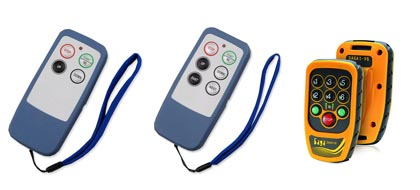
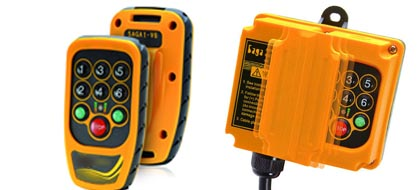
Radio Mars 2014 + MAJ Radio Pocket

diff --git a/html/fr/produit-JMei-Pocket.php b/html/fr/produit-JMei-Pocket.php
@@ -2,8 +2,8 @@
 	include 'common.php';
 //	$title .= '';
 	$title = 'JMei - Radio pocket - télécommande mini';
-	$description = 'Commande à distance économique et légère, JMei-L4/L6/L8, JMei-V6/V6+. La commande industrielle à petit prix';
-	$keywords = 'Radio pocket,radio,pocket,Emetteur,compact,434MHZ,radio à distance,pont roulant,boîte à boutons,télécommande,commande industrielle';
+	$description = 'Commande à distance économique et légère, JMeiradio pocket. La commande industrielle à petit prix, ultra-compacte';
+	$keywords = 'Radio pocket,radio,pocket,Emetteur,compact,868MHZ,radio à distance,pont roulant,boîte à boutons,télécommande,commande industrielle, télécommande compacte';
 
 	$pageId = 'JMPOCKET';
 	include 'header.php';
@@ -14,72 +14,40 @@
 <?php include 'product-nav.php'; ?>
 				<div class="span9">
 					<a name="highlight"></a>
-				  <h3>Télécommande  de type JMei-L et JMei-V6 (Radio pocket)</h3>
+				  <h3>Télécommande   radio pocket</h3>
 					<div class="row">
 						<div class="span4">
-							<img class="img-polaroid" src="../img/product-JMPOCKET/JMpocket1.jpg" alt="Radiocommande pour pont roulant" />
+							<img class="img-polaroid" src="../img/product-JMPOCKET/JMpocket1.jpg" alt="Télécommande compacte" />
 						</div>
 					</div>
 					<p></p>
-					<hr>
-					<h4>Gamme</h4>
-					<div class="row">
-						<div class="span3">
-							<h5>JMei-L4 / JMei-L6 / JMei-L8</h5>
-							<img src="../img/product-JMPOCKET/JMpocket2.jpg" alt="Boîte à boutons JMei"> 
-                         <p><a href="<?php echo Site::relativeUrl('POCKETL.pdf');?>" class="btn btn-success btn-large"><i class="icon-white icon-arrow-down"></i> JMei-L (PDF)</a></p>
-							<h6>Fonctions diponibles:</h6>
-							<ul>
-								<li>Jusqu'à 8 boutons à simple impulsion.</li>
-								<li>Fréquence fixe à quartz. </li>
-								<li>Indicateur de puissance faible. <br>
-							    Bouton-poussoir bloqué détecteur. </li>
-								<li>Distance de fonctionnement: Jusqu'à 100 mètres. </li>
-								<li>Température de fonctionnement: -45 ℃ ~ 80 ℃. </li>
-								<li>Consommation: environ 10mA. </li>
-								<li>Structure: nylon + fibre de verre. </li>
-								<li>Résistance aux chocs. </li>
-								<li>Fonction programmable</li>
-								<li>434MHZ - 12-24V DC ou 24-48-110-220-380V AC</li>
-							</ul>
-							<p><strong>Applications: </strong>émetteur compact  de poche dont l'installation est  aisée.<br>
-						    Son marché principal est le marché des véhicules, en particulier pour les camions de remorquage.</p>
-						</div>
-						<div class="span3">
-						  <h5>JMei-V6 / JMei-V6+<br>
-							</h5>
-							<img src="../img/product-JMPOCKET/JMpocket3.jpg" alt="Boîte à boutons universelle"> 
-                         <p><a href="<?php echo Site::relativeUrl('POCKETV.pdf');?>" class="btn btn-success btn-large"><i class="icon-white icon-arrow-down"></i> JMei-V6 (PDF)</a></p>
-						  <h6>Fonctions diponibles:</h6>
-                          <ul>
-                            <li>SMART Communication Radio <br>
+					<p><a href="<?php echo Site::relativeUrl('POCKETV.pdf');?>" class="btn btn-success btn-large"><i class="icon-white icon-arrow-down"></i> Télécharger le PDF</a></p>
+					<a name="features"></a><h4>Caractéristiques</h4>
+                  <ul>
+                      <li>SMART Communication Radio <br>
                               Il aide l'opérateur à surveiller l'état de signal radio avec cette nouvelle technologie RF. </li>
-                            <li>Sélection automatique des canaux (ACS) <br>
+                      <li>Sélection automatique des canaux (ACS) <br>
                               Cette fonction crée une non-interférence près d'autres systèmes</li>
-                            <li>Récepteur tableau de commande (en option) <br>
+                      <li>Récepteur tableau de commande<br>
                               Un tableau de commande disponible sur le récepteur pour pallier à l'émetteur  perdu / endommagé </li>
-                            <li>Jumelage à distance <br>
+                      <li>Jumelage à distance <br>
                               Il est facile et simple d'enregistrer un émetteur de remplacement sans aucun outil nécessaire. </li>
-                            <li>Programmable Logiciel PC <br>
+                      <li>Programmable Logiciel PC <br>
                               Il vous permet de programmer la fonction de bouton et fréquences grâce à un logiciel.</li>
-                            <li>NF / NO relais <br>
+                      <li>NF / NO relais <br>
                               Tous les relais sont NF / NO et permettent de répondre à toutes les exigences les plus spécifiques de l'application.</li>
-                            <li> IP66 <br>
+                      <li> IP66 <br>
                               Boîtier robuste pour toutes les conditions météorologiques.</li>
-                            <li>Le mode de mise sous tension par mot de passe.<br>
+                      <li>Le mode de mise sous tension par mot de passe.<br>
                               Il offre plusieurs modes de mise sous tension comme mot de passe pour l'opérateur autorisé.</li>
-                            <li>Câble du récepteur pré-assemblé.<br>
+                      <li>Câble du récepteur pré-assemblé.<br>
                               Installation facile et rapide</li>
-                            <li>868MHz - 10..42V DC</li>
+                      <li>868MHz - 10..42V DC</li>
                           </ul>
-							<p><strong>Applications: </strong>Un système radio à distance développé pour le système  remorques / treuils / hydraulique. Il s'applique également pour le contrôle industriel / porte / barrière et autres domaines industriels.</p>
+                   <a name="uses"></a><h4>Applications</h4>
+							<p>Un système radio à distance développé pour le système  remorques / treuils / hydraulique. Il s'applique également pour le contrôle industriel / porte / barrière et autres domaines industriels.</p>
 						</div>
-						<div class="span3"></div>
-					</div>
-					<div class="row">
-					  <div class="span3">					    </div>
-						<div class="span3">
-						</div>
+
 					</div>
 				</div>
 			</div>

diff --git a/html/fr/produit-JMei-Pocket - copie.php b/html/fr/produit-JMei-Pocket - copie.php
@@ -1,0 +1,86 @@
+<?php
+	include 'common.php';
+//	$title .= '';
+	$title = 'JMei - Radio pocket - télécommande mini';
+	$description = 'Commande à distance économique et légère, JMei-L4/L6/L8, JMei-V6/V6+. La commande industrielle à petit prix';
+	$keywords = 'Radio pocket,radio,pocket,Emetteur,compact,434MHZ,radio à distance,pont roulant,boîte à boutons,télécommande,commande industrielle';
+
+	$pageId = 'JMPOCKET';
+	include 'header.php';
+	include 'nav.php';
+
+?>
+			<div class="row">
+<?php include 'product-nav.php'; ?>
+				<div class="span9">
+					<a name="highlight"></a>
+				  <h3>Télécommande  de type JMei-L et JMei-V6 (Radio pocket)</h3>
+					<div class="row">
+						<div class="span4">
+							<img class="img-polaroid" src="../img/product-JMPOCKET/JMpocket1.jpg" alt="Radiocommande pour pont roulant" />
+						</div>
+					</div>
+					<p></p>
+					<hr>
+					<h4>Gamme</h4>
+					<div class="row">
+						<div class="span3">
+							<h5>JMei-L4 / JMei-L6 / JMei-L8</h5>
+							<img src="../img/product-JMPOCKET/JMpocket2.jpg" alt="Boîte à boutons JMei"> 
+                         <p><a href="<?php echo Site::relativeUrl('POCKETL.pdf');?>" class="btn btn-success btn-large"><i class="icon-white icon-arrow-down"></i> JMei-L (PDF)</a></p>
+							<h6>Fonctions diponibles:</h6>
+							<ul>
+								<li>Jusqu'à 8 boutons à simple impulsion.</li>
+								<li>Fréquence fixe à quartz. </li>
+								<li>Indicateur de puissance faible. <br>
+							    Bouton-poussoir bloqué détecteur. </li>
+								<li>Distance de fonctionnement: Jusqu'à 100 mètres. </li>
+								<li>Température de fonctionnement: -45 ℃ ~ 80 ℃. </li>
+								<li>Consommation: environ 10mA. </li>
+								<li>Structure: nylon + fibre de verre. </li>
+								<li>Résistance aux chocs. </li>
+								<li>Fonction programmable</li>
+								<li>434MHZ - 12-24V DC ou 24-48-110-220-380V AC</li>
+							</ul>
+							<p><strong>Applications: </strong>émetteur compact  de poche dont l'installation est  aisée.<br>
+						    Son marché principal est le marché des véhicules, en particulier pour les camions de remorquage.</p>
+						</div>
+						<div class="span3">
+						  <h5>JMei-V6 / JMei-V6+<br>
+							</h5>
+							<img src="../img/product-JMPOCKET/JMpocket3.jpg" alt="Boîte à boutons universelle"> 
+                         <p><a href="<?php echo Site::relativeUrl('POCKETV.pdf');?>" class="btn btn-success btn-large"><i class="icon-white icon-arrow-down"></i> JMei-V6 (PDF)</a></p>
+						  <h6>Fonctions diponibles:</h6>
+                          <ul>
+                            <li>SMART Communication Radio <br>
+                              Il aide l'opérateur à surveiller l'état de signal radio avec cette nouvelle technologie RF. </li>
+                            <li>Sélection automatique des canaux (ACS) <br>
+                              Cette fonction crée une non-interférence près d'autres systèmes</li>
+                            <li>Récepteur tableau de commande (en option) <br>
+                              Un tableau de commande disponible sur le récepteur pour pallier à l'émetteur  perdu / endommagé </li>
+                            <li>Jumelage à distance <br>
+                              Il est facile et simple d'enregistrer un émetteur de remplacement sans aucun outil nécessaire. </li>
+                            <li>Programmable Logiciel PC <br>
+                              Il vous permet de programmer la fonction de bouton et fréquences grâce à un logiciel.</li>
+                            <li>NF / NO relais <br>
+                              Tous les relais sont NF / NO et permettent de répondre à toutes les exigences les plus spécifiques de l'application.</li>
+                            <li> IP66 <br>
+                              Boîtier robuste pour toutes les conditions météorologiques.</li>
+                            <li>Le mode de mise sous tension par mot de passe.<br>
+                              Il offre plusieurs modes de mise sous tension comme mot de passe pour l'opérateur autorisé.</li>
+                            <li>Câble du récepteur pré-assemblé.<br>
+                              Installation facile et rapide</li>
+                            <li>868MHz - 10..42V DC</li>
+                          </ul>
+							<p><strong>Applications: </strong>Un système radio à distance développé pour le système  remorques / treuils / hydraulique. Il s'applique également pour le contrôle industriel / porte / barrière et autres domaines industriels.</p>
+						</div>
+						<div class="span3"></div>
+					</div>
+					<div class="row">
+					  <div class="span3">					    </div>
+						<div class="span3">
+						</div>
+					</div>
+				</div>
+			</div>
+ <?php include 'footer.php';?>

diff --git a/html/fr/produits - copie.php b/html/fr/produits - copie.php
@@ -238,7 +238,7 @@ Jusqu'à 8 fonctions analogiques (3 joysticks double axes). </p>
 			<div id="r3" class="row spaced-row">
 				<div id="i5" class="tile span4">
                     <div class="top-text">
-                        <h5 class="tile-title">Télécommande de type JMei pocket</h5>
+                        <h5 class="tile-title">Télécommande de type JMei-L et JMei-V6</h5>
                         <p class="tile-intro">La télécommande ultra compacte, ultra légère.</p>
                     </div>
                     <img class="bottom-img" src="../img/product-overview3/JMPocket.jpg">
@@ -248,15 +248,17 @@ Jusqu'à 8 fonctions analogiques (3 joysticks double axes). </p>
                     </div>
                     <div class="tile-detail">
                         <div class="tile-desc">
-							<p>Commande simple vitesse 6 fonctions (extensible à 8).<br>
-							  <br>
-							SMART Communication Radio - 868MHz.<br>
-							<br>
-							Sélection automatique des canaux fréquences.<br>
-							<br>
-							Récepteur avec commandes intégrées (commande de secours).<br>
-							<br>
-							Tension d'utilisation: de 10 à 42V DC.</p>
+							<p>JMei-L4 / JMei-L6 / JMei-L8</p>
+							<p>Commande simple vitesse 4, 6 ou 8 fonctions.<br>
+							  434MHz.<br>
+						    Disponible en 12V DC ou 220V AC.</p>
+							<p> <br>
+						    JMei-V6 / JMei-V6+<br>
+						    <br>
+							  	Commande simple vitesse 6 fonctions.<br>
+								868MHz.<br>
+								Disponible en 12V DC.<br>
+								Récepteur avec commandes intégrées.</p>
 							<p><a href="<?php echo Site::relativeUrl('JMPOCKET');?>" class="btn btn-jmei">Plus d'infos...&raquo;</a></p>
 					  </div>
                         <a href="../img/product-overview3/POCKET_2.jpg" data-type="img"></a>

diff --git a/html/fr/realisations.php b/html/fr/realisations.php
@@ -15,6 +15,7 @@
 					<div>
 						<ul id="leftnav" class="nav nav-tabs nav-stacked">
 							<li class="nav-header">Radiocommandes personnalisées</li>
+                         <li class="active"><a href="#blog-2014-03">Mars 2014 <i class="icon-chevron-right pull-right"></i></a></li>
 							<li class="active"><a href="#blog-2014-02">Février 2014 <i class="icon-chevron-right pull-right"></i></a></li>                         <li class="active"><a href="#blog-2014-01">Janvier 2014 <i class="icon-chevron-right pull-right"></i></a></li>
 							<li class="active"><a href="#blog-2013-12">Décembre 2013 <i class="icon-chevron-right pull-right"></i></a></li>
 							<li><a href="#blog-2013-11">Novembre 2013 <i class="icon-chevron-right pull-right"></i></a></li>
@@ -23,6 +24,16 @@
 				</div>
 				<div class="span9">
 				<!--Body content-->
+                	  <section id="blog-2014-03">
+					<h3>Télécommande pocket</h3>
+				    <img class="img-polaroid blog" src="../img/custom-product/2014-03-pocket.jpg" alt="Télécommande ultra-compacte">
+					  <p>Radiocommande pocket industrielle.
+					    <br>
+					  Cette télécommande ultra-compacte est destinée pour des commandes simples d'applications industrielles.<br>
+					  Son récepteur avec fonctions intégrées permet de pallier à la perte ou déterioration de l'émetteur.<br>
+					  </p>
+               	  </section>
+					<hr> 
                	  <section id="blog-2014-02">
 					<h3>Télécommande analogique / CANopen personnalisée</h3>
 				    <img class="img-polaroid blog" src="../img/custom-product/2014-02-3000.jpg" alt="Télécommande industrielle personnalisée">

diff --git a/html/en/realisations.php b/html/en/realisations.php
@@ -15,6 +15,7 @@
 					<div>
 						<ul id="leftnav" class="nav nav-tabs nav-stacked">
 							<li class="nav-header">Featured Customization</li>
+                          <li class="active"><a href="#blog-2014-03">March 2014 <i class="icon-chevron-right pull-right"></i></a></li>
 							<li class="active"><a href="#blog-2014-02">February 2014 <i class="icon-chevron-right pull-right"></i></a></li>
                          <li class="active"><a href="#blog-2014-01">January 2014 <i class="icon-chevron-right pull-right"></i></a></li>
 							<li class="active"><a href="#blog-2013-12">December 2013 <i class="icon-chevron-right pull-right"></i></a></li>
@@ -24,6 +25,16 @@
 				</div>
 				<div class="span9">
 				<!--Body content-->
+                    <section id="blog-2014-03">
+					<h3>Transportation Radio Remote Control</h3>
+				    <img class="img-polaroid blog" src="../img/custom-product/2014-03-pocket.jpg" alt="Transportation Radio Remote Control">
+					  <p>Industrial radio pocket. 
+                        <br>
+                        This ultra-compact remote control is designed for simple control of industrial applications.<br>
+Its receiver with built-in functions can compensate for the loss or deterioration of the transmitter. <br>
+					  </p>
+               	  </section>
+					<hr> 
                	  <section id="blog-2014-02">
 					<h3>Customized analog / fieldbus (CANopen) remote control</h3>
 				    <img class="img-polaroid blog" src="../img/custom-product/2014-02-3000.jpg" alt="Custom industrial remote">

diff --git a/html/client/index.php b/html/client/index.php
@@ -1,0 +1,10 @@
+<!doctype html>
+<html>
+<head>
+<meta charset="UTF-8">
+<title>Document sans titre</title>
+</head>
+
+<body>
+</body>
+</html>
